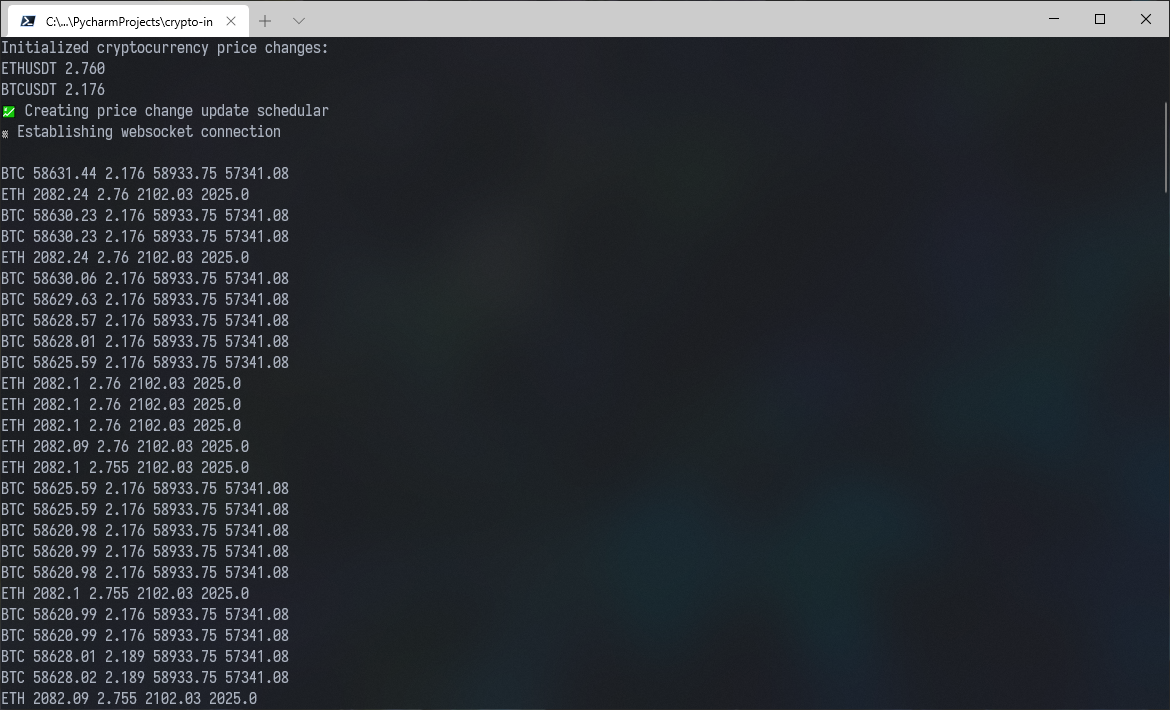
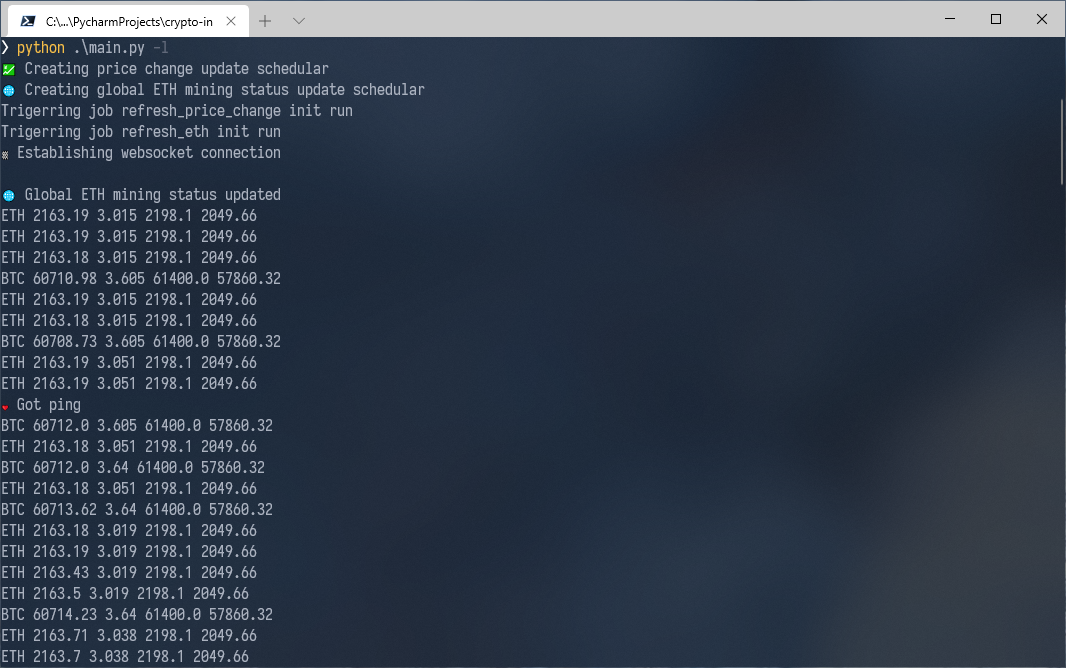
v4.0

diff --git a/main.py b/main.py
@@ -8,6 +8,9 @@ import signal,os,logging
 import binascii
 import serial
 import argparse
+from scipy.interpolate import interp1d
+import datetime
+import numpy as np
 
 coins = ['ETHUSDT', 'BTCUSDT']
 price_change= {}
@@ -102,6 +105,17 @@ def serial_pool_command_generator(content):
     commands.append(pool_controls['scale'] + '.val=%i' % int(scale*100))
     return commands
 
+def serial_chart_command_generator(content):
+    commands = ['page 2', 'cle 3,0', 'cle 3,1']
+    for item in content['hashrate']:
+        commands.append('add 3,0,%i' % item)
+    for item in content['price']:
+        commands.append('add 3,1,%i' % item)
+    for item in range(4,8):
+        commands.append('ref %i' % item)
+    commands.append('page 0')
+    return commands
+
 def send_serial(device, commands):
     for item in commands:
         cmd = binascii.hexlify(item.encode('utf-8')).decode('utf-8')
@@ -170,11 +184,61 @@ def update_pool_status():
     if serial_debug:
         print(commands)
     if not print_only:
-        SERIAL_BLOCKED = True
-        sleep(0.2)
-        send_serial(device, commands)
-        SERIAL_BLOCKED = False
+        while True:
+            if not SERIAL_BLOCKED:
+                SERIAL_BLOCKED = True
+                sleep(0.2)
+                send_serial(device, commands)
+                SERIAL_BLOCKED = False
+                break
+            print('Sparkpool status: Waiting for serial port released')
+            sleep(1)
     print('🔥 Sparkpool status', pool, 'updated')
+
+def update_network_status():
+    global SERIAL_BLOCKED
+
+    def norm(array):
+        return (224 * (array - np.min(array)) / np.ptp(array)).astype(int)
+
+    url = 'https://www.sparkpool.com/v1/currency/statsHistory'
+    r = requests.get(url, params={
+        'currency': 'ETH',
+        'zoom': 'm'
+    })
+    data = r.json()['data']
+
+    hashrate = []
+    usd = []
+
+    for item in data:
+    # time.append(dateutil.parser.isoparse(item['time']))
+        hashrate.append(float(item['hashrate'])/1000000000000)
+        usd.append(item['usd'])
+    x = np.linspace(0,120,120)
+    x_scaled = np.linspace(0, 120, 448)
+
+    interpreted_hashrate = interp1d(x, hashrate, kind='cubic')
+    interpreted_price = interp1d(x, usd, kind='cubic')
+    commands = serial_chart_command_generator({
+        'hashrate': norm(interpreted_hashrate(x_scaled)),
+        'price': norm(interpreted_price(x_scaled))
+    })
+    if verbose:
+        print(data)
+    if serial_debug:
+        print(commands)
+    if not print_only:
+        while True:
+            if not SERIAL_BLOCKED:
+                SERIAL_BLOCKED = True
+                sleep(0.2)
+                send_serial(device, commands)
+                SERIAL_BLOCKED = False
+                break
+            print('Global ETH mining status: Waiting for serial port released')
+            sleep(1)
+    print('🌐 Global ETH mining status updated')
 
 def on_message(wsapp, message):
     result = gzip.decompress(message)
@@ -246,21 +310,28 @@ if __name__ == "__main__":
         print('🔌Successfully open serial port', device.name)
 
     # init increses variable
-    get_price_change()
-    print('Initialized cryptocurrency price changes:')
-    for item in price_change:
-        print(item, price_change[item])
+    # get_price_change()
+    # print('Initialized cryptocurrency price changes:')
+    # for item in price_change:
+    #     print(item, price_change[item])
 
     # create a schedular to get price change percent
     print('💹 Creating price change update schedular')
     schedular = background.BackgroundScheduler()
-    schedular.add_job(get_price_change, 'interval', seconds=2, id='refresh')
+    schedular.add_job(get_price_change, 'interval', seconds=2, id='refresh_price_change')
+
+    print('🌐 Creating global ETH mining status update schedular')
+    schedular.add_job(update_network_status, 'interval', hours=24, id='refresh_eth')
 
     # create another schedular to update mining pool status
     if pool:
         print('⭐ Creating sparkpool update schedular')
-        schedular.add_job(update_pool_status, 'interval', minutes=1, id='refresh_pool')
+        schedular.add_job(update_pool_status, 'interval', minutes=1, id='refresh_sparkpool')
     schedular.start()
+
+    for job in schedular.get_jobs():
+        print('Trigerring job', job.id, 'init run')
+        job.modify(next_run_time=datetime.datetime.now())
 
     # establish websocket connection
     print('⛓ Establishing websocket connection\n')

diff --git a/readme.md b/readme.md
@@ -54,6 +54,16 @@ python .\main.py -s COM3 -p sp_*****
 ```
 ![example1](images/example1.png)
 
+## Don't stop
+
+I recommend run script as daemon using pm2:
+```
+pm2 startup
+pm2 main.py --interpreter=python3 -- <args>
+pm2 save
+```
+**--interpreter=python3** MUST REQUIRED
+
 ## UI
 
 You can change screen UI by modifying ```screen.HMI``` using USART HMI
@@ -66,8 +76,17 @@ Reference: http://wiki.tjc1688.com/doku.php?id=start
 
 ## Changelog
 
+ - V4.0
+   - Added Page 3: Now you can even monitor ETH Network Hashrate & Price changes
+   - Curve data comes from Sparkpool API, scaled in month, and updates every 24 hours
+   - Data got normalized before sent to HMI screen
+     ![v4](images/v4.jpg)
+   - Initialization logic got optimized
+   - Serial Block got optimized
+   - Current project works, but it might works better with a queue system managing serial commands in case some data get dropped while serial blocked.
+
  - V3.0
-   - Now support display mining information from Sparkpool, using ```-p POOL``` argument to specify a mining sub-account
+   - Added page 2: Now support display mining information from Sparkpool, using ```-p POOL``` argument to specify a mining sub-account
      ![screenshot](images/preview1.jpg)
    - Touch anywhere of screen to switch between market page and mining page
    - Currently I set a 2 minute interval for pool state update. You might need to change source script in ```main.py``` to adjust interval at line 255
